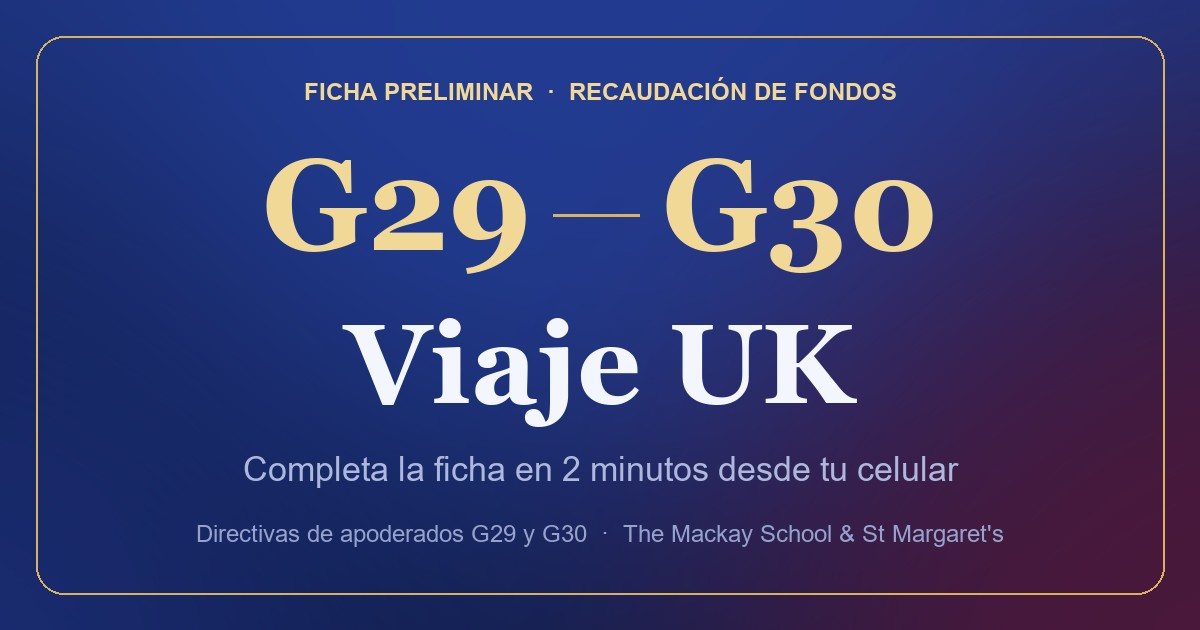
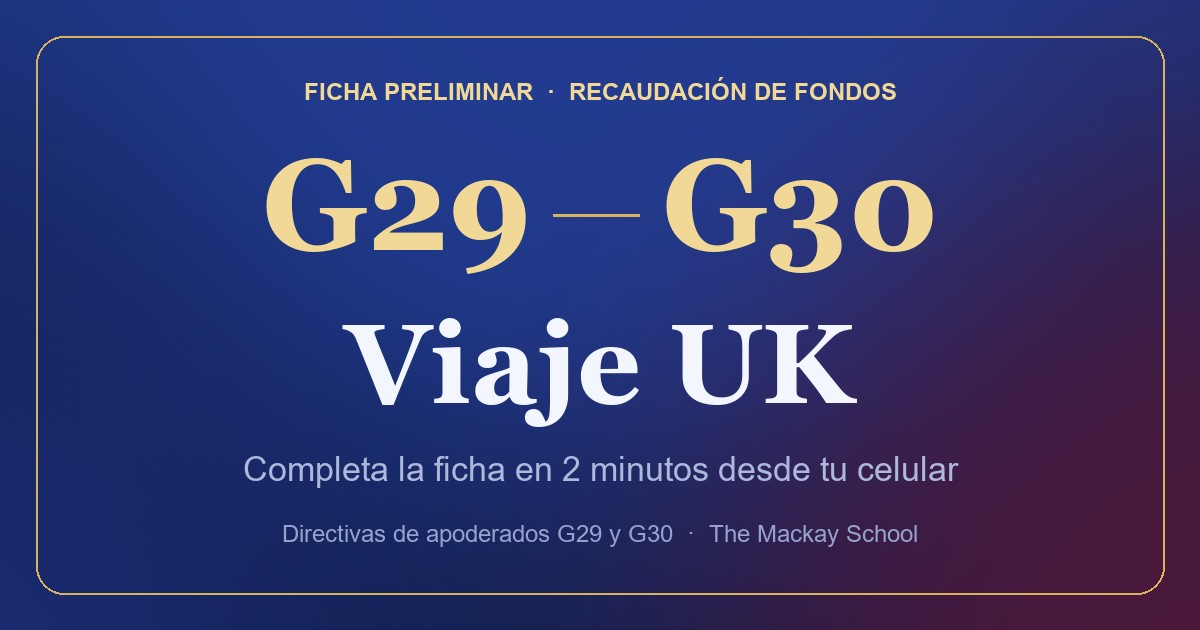
Viaje UK: celular +56 9, nombres con mayuscula, correo estricto, ayuda de confirmacion, solo Mackay

Changed region(s): [[0.1542, 0.8143, 0.8325, 0.8746]]

diff --git a/viaje-uk.html b/viaje-uk.html
@@ -4,7 +4,7 @@
 <meta charset="utf-8">
 <meta name="viewport" content="width=device-width, initial-scale=1, viewport-fit=cover">
 <title>Ficha Viaje UK · Generaciones 2029 y 2030</title>
-<meta name="description" content="Ficha preliminar para la recaudación de fondos del Viaje UK. Directivas de apoderados G29 y G30 · The Mackay School & St Margaret's.">
+<meta name="description" content="Ficha preliminar para la recaudación de fondos del Viaje UK. Directivas de apoderados G29 y G30 · The Mackay School.">
 <meta name="theme-color" content="#0a1230">
 <meta name="robots" content="noindex">
 <link rel="canonical" href="https://promo-stm-mackay-30.github.io/viaje-uk.html">
@@ -88,6 +88,10 @@ input.invalido{border-color:var(--mal);box-shadow:0 0 0 3px rgba(255,106,125,.22
 .msg{border-radius:.9rem;padding:.8rem 1rem;font-size:.9rem;margin:.8rem 0}
 .msg.mal{background:rgba(255,106,125,.14);border:1px solid rgba(255,106,125,.5)}
 .msg.info{background:rgba(79,123,255,.12);border:1px solid rgba(79,123,255,.4)}
+.info-btn{display:inline-flex;align-items:center;gap:.5rem;margin-top:.9rem;background:none;border:0;color:var(--oro2);font:inherit;font-size:.88rem;font-weight:600;cursor:pointer;padding:.3rem 0;min-height:2.4rem}
+.info-btn i{display:grid;place-items:center;width:1.35rem;height:1.35rem;border-radius:50%;border:1.5px solid var(--oro);font-style:normal;font-family:'Playfair Display',serif;font-size:.8rem}
+.info-box{display:none;margin-top:.5rem;padding:.9rem 1rem;border-radius:.9rem;background:rgba(79,123,255,.1);border:1px solid rgba(79,123,255,.4);font-size:.85rem;color:var(--texto)}
+.info-box.abierto{display:block}.info-box p+p,.info-box ul{margin-top:.5rem}.info-box ul{padding-left:1.1rem}.info-box li{margin-top:.3rem}
 .honey{position:absolute;left:-9999px;width:1px;height:1px;opacity:0}
 .oculto{display:none!important}
 .gracias{text-align:center;padding:1.6rem 1.2rem}
@@ -136,7 +140,7 @@ input.invalido{border-color:var(--mal);box-shadow:0 0 0 3px rgba(255,106,125,.22
   <section class="tarjeta">
     <h2><span>2</span>Contacto <em style="text-transform:none;letter-spacing:0;font-weight:400;color:var(--suave)">(opcional)</em></h2>
     <label for="tel">Celular</label>
-    <input type="tel" id="tel" inputmode="tel" autocomplete="tel" placeholder="9 1234 5678">
+    <input type="tel" id="tel" inputmode="tel" autocomplete="tel" placeholder="+56 9 1234 5678">
     <label for="email">Correo</label>
     <input type="email" id="email" inputmode="email" autocomplete="email" autocapitalize="none" placeholder="nombre@correo.com">
     <small class="ayuda">Solo para coordinar las actividades del viaje.</small>
@@ -166,8 +170,16 @@ input.invalido{border-color:var(--mal);box-shadow:0 0 0 3px rgba(255,106,125,.22
 
   <section class="tarjeta">
     <h2><span>4</span>Confirmación</h2>
-    <label class="conf"><input type="checkbox" id="firma"><span>Confirmo que los datos son correctos. Esto reemplaza la firma de la ficha.</span></label>
-    <p class="ayuda" style="margin-top:.8rem;font-size:.78rem;color:var(--suave)">Esta encuesta es preliminar y sirve para dimensionar cuántos apoderados están disponibles para las distintas actividades. Ante dudas, leer el documento adjunto.</p>
+    <label class="conf"><input type="checkbox" id="firma"><span>Confirmo que los datos son correctos y acepto que las directivas los usen para organizar el Viaje UK. Esto reemplaza la firma de la ficha.</span></label>
+    <button type="button" class="info-btn" id="infoBtn" aria-expanded="false" aria-controls="infoBox"><i>i</i> ¿Por qué firmo esto?</button>
+    <div class="info-box" id="infoBox" role="note">
+      <p><b>¿Qué estoy aceptando?</b></p>
+      <ul>
+        <li>Que los datos de la ficha son tuyos y están correctos. Es la firma digital, igual que la firma de la hoja impresa.</li>
+        <li>Que las directivas G29 y G30 usen tus datos solo para organizar el Viaje UK y contactarte por las actividades.</li>
+      </ul>
+      <p><b>¿Qué NO implica?</b> Es una encuesta preliminar: no te obliga a pagar ni a participar. Sirve para saber cuántos apoderados pueden colaborar en cada actividad. Puedes corregir tus respuestas cuando quieras volviendo a enviar la ficha.</p>
+    </div>
   </section>
 
   <div id="error" class="msg mal oculto" role="alert"></div>
@@ -183,7 +195,7 @@ input.invalido{border-color:var(--mal);box-shadow:0 0 0 3px rgba(255,106,125,.22
   <button class="btn sec" id="editar" type="button">Corregir mis respuestas</button>
 </section>
 
-<p class="pie">Directivas de apoderados G29 y G30 · The Mackay School & St Margaret's<br>Tus datos se usan solo para organizar el Viaje UK.</p>
+<p class="pie">Directivas de apoderados G29 y G30 · The Mackay School<br>Tus datos se usan solo para organizar el Viaje UK.</p>
 </div>
 
 <script src="config.js"></script>
@@ -203,6 +215,29 @@ function limpiaMarca(i) { i.classList.remove("invalido"); const s = $(i.id + "-e
 document.querySelectorAll("input").forEach(i => i.addEventListener("input", () => limpiaMarca(i)));
 document.querySelectorAll('input[type=radio],input[type=checkbox]').forEach(i => i.addEventListener("change", () => $("error").classList.add("oculto")));
 
+/* Nombres: primera letra de cada palabra en mayúscula (al terminar el campo, el resto en minúscula) */
+const mayus = (v, resto) => v.replace(/\S+/g, w => w.charAt(0).toUpperCase() + (resto ? w.slice(1).toLowerCase() : w.slice(1)));
+["alumno", "apoderado"].forEach(id => {
+  $(id).addEventListener("input", e => { const v = mayus(e.target.value, false); if (v !== e.target.value) e.target.value = v; });
+  $(id).addEventListener("blur", e => { e.target.value = mayus(e.target.value.trim().replace(/\s+/g, " "), true); });
+});
+$("infoBtn").addEventListener("click", () => { const a = $("infoBox").classList.toggle("abierto"); $("infoBtn").setAttribute("aria-expanded", a); });
+
+/* Celular chileno: el campo trae fijo "+56 9" y se escriben los 8 dígitos restantes */
+const PREFIJO = "+56 9 ";
+function telFormato(v) {
+  let d = String(v || "").replace(/\D/g, "");
+  if (d.startsWith("569")) d = d.slice(3); else if (d.startsWith("56")) d = d.slice(2);
+  if (d.length > 8 && d.length === 9 && d.startsWith("9")) d = d.slice(1);
+  d = d.slice(0, 8);
+  return PREFIJO + d.slice(0, 4) + (d.length > 4 ? " " + d.slice(4) : "");
+}
+const telCompleto = v => String(v || "").replace(/\D/g, "").length === 11;
+$("tel").setAttribute("inputmode", "numeric");
+$("tel").addEventListener("focus", e => { if (!e.target.value) e.target.value = PREFIJO; });
+$("tel").addEventListener("input", e => { e.target.value = telFormato(e.target.value); });
+$("tel").addEventListener("blur", e => { if (e.target.value.trim() === PREFIJO.trim()) e.target.value = ""; });
+
 $("curso").addEventListener("input", e => e.target.value = e.target.value.toUpperCase().replace(/\s+/g, ""));
 $("otroCurso").addEventListener("input", e => e.target.value = e.target.value.toUpperCase().replace(/\s+/g, ""));
 $("email").addEventListener("input", e => e.target.value = e.target.value.toLowerCase().replace(/\s+/g, ""));
@@ -217,6 +252,11 @@ document.querySelectorAll('input[name="gen"]').forEach(i => i.addEventListener("
 $("otroChk").addEventListener("change", actualizaOtro);
 document.querySelectorAll('input[name="ayuda"]').forEach(i => i.addEventListener("change", () => mostrarCond($("modBox"), radio("ayuda") === "Sí")));
 
+/* correo real: usuario@dominio.terminación, sin puntos dobles ni errores comunes (.con, .cmo) */
+function correoOk(e) {
+  if (!/^[a-z0-9][a-z0-9._%+-]*@[a-z0-9-]+(\.[a-z0-9-]+)*\.[a-z]{2,}$/.test(e) || /\.\./.test(e) || /\.$/.test(e.split("@")[0])) return false;
+  return !/\.(con|cmo|coom|vom|comm|cim|clo)$/.test(e);
+}
 /* teléfono chileno: acepta +56, espacios, guiones; devuelve los 9 dígitos o "" */
 function tel9(v) { const d = String(v).replace(/\D/g, ""); return d.length >= 9 ? d.slice(-9) : ""; }
 
@@ -231,7 +271,7 @@ $("f").addEventListener("submit", async ev => {
   const alumno = $("alumno").value.trim().replace(/\s+/g, " "), apoderado = $("apoderado").value.trim().replace(/\s+/g, " ");
   const gen = radio("gen"), curso = $("curso").value.trim(), viaja = radio("viaja"), ayuda = radio("ayuda");
   const mods = [...document.querySelectorAll("#mods input:checked")].map(i => i.value);
-  const tel = $("tel").value.trim(), email = $("email").value.trim();
+  const tel = telCompleto($("tel").value) ? $("tel").value.trim() : ($("tel").value.trim() === PREFIJO.trim() ? "" : $("tel").value.trim()), email = $("email").value.trim();
   const otro = $("otroChk").checked, otroCurso = $("otroCurso").value.trim();
 
   if (alumno.split(" ").length < 2 || alumno.length < 5) return marca("alumno", "Escribe nombre y apellido del alumno.");
@@ -239,8 +279,8 @@ $("f").addEventListener("submit", async ev => {
   if (!gen) { $("gen").scrollIntoView({ behavior: "smooth", block: "center" }); return error("Indica la generación del alumno (G29 o G30)."); }
   if (!/^[0-9]{1,2}\s?[A-Z]$/.test(curso)) return marca("curso", "Escribe el curso, por ejemplo 8A.");
   if (otro && !/^[0-9]{1,2}\s?[A-Z]$/.test(otroCurso)) return marca("otroCurso", "Escribe el curso del otro hijo, por ejemplo 9A.");
-  if (tel && !tel9(tel)) return marca("tel", "Revisa el celular: faltan dígitos.");
-  if (email && !/^[^\s@]+@[^\s@]+\.[^\s@]{2,}$/.test(email)) return marca("email", "Revisa el correo.");
+  if (tel && tel !== PREFIJO.trim() && !telCompleto(tel)) return marca("tel", "El celular debe tener 8 dígitos después de +56 9.");
+  if (email && !correoOk(email)) return marca("email", "Escribe un correo real, con @ y terminación (ej.: nombre@gmail.com).");
   if (!viaja) { $("viaja").scrollIntoView({ behavior: "smooth", block: "center" }); return error("Indica si tu hijo realizará el Viaje UK."); }
   if (!ayuda) { $("ayuda").scrollIntoView({ behavior: "smooth", block: "center" }); return error("Indica si deseas trabajar en las actividades."); }
   if (ayuda === "Sí" && !mods.length) { $("mods").scrollIntoView({ behavior: "smooth", block: "center" }); return error("Marca al menos una modalidad de participación."); }
